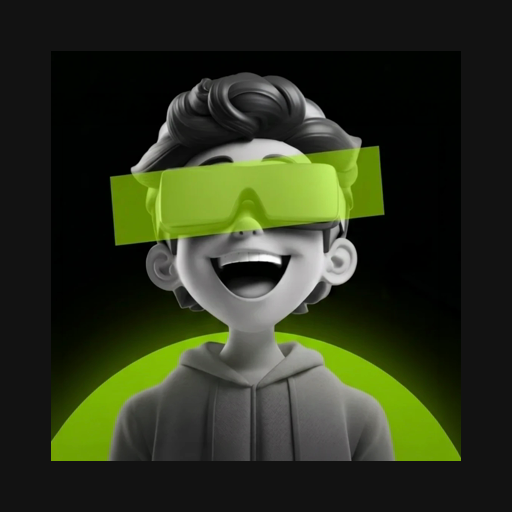
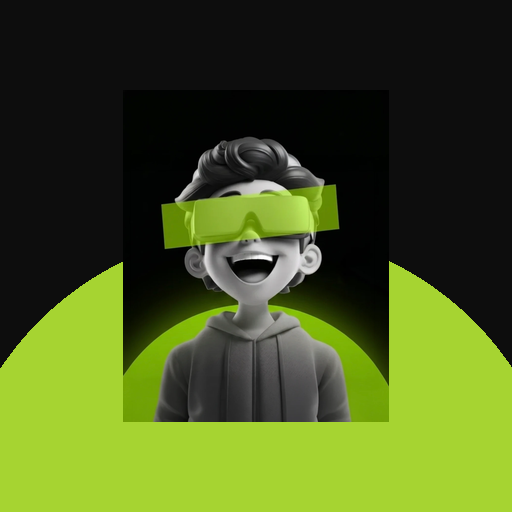
yeta: 잠금 화면 = 레이어 스택(픽: 글리치+VHS+홀로+펄스) + 좌우 잘림 해소 (#40)
포스터 폐지 → .ym-stage 스택(픽 값 로컬 변수) · 스테이지 폭 100% 온전 · maskable 반폭 205→101px 재생성(원형 런처 잘림 원인 실측). check_refs rc=0.

diff --git a/viewer/index.html b/viewer/index.html
@@ -251,9 +251,8 @@ body { background:var(--yeta-bg,#121212); color:var(--fg); font-family:Pretendar
       radial-gradient(circle at 50% 40%, rgba(var(--accent-rgb),.08), transparent 34%),
       radial-gradient(circle at 12% 90%, rgba(var(--cobalt-rgb),.10), transparent 36%),
       var(--bg); color:var(--fg); }
-  /* step1 로그인창 = 운영자 포스터(구성도/소스이미지/main_v2.png → yeta-hero.webp) 전면 full-bleed. 하단 --bg-scrim 딤(로그인·네비 가독) */
-  .ymain { position:fixed; inset:0; display:flex; flex-direction:column; z-index:1;
-    background:var(--bg-scrim), url(assets/brand/yeta-hero.webp) center/cover no-repeat var(--bg); }
+  /* step1 로그인창 = 살아있는 레이어 스택(운영자 260705 픽 이식 — 정적 포스터 폐지 · 소년 컷아웃 + CSS 원/밴드 + 효과 4종) */
+  .ymain { position:fixed; inset:0; display:flex; flex-direction:column; z-index:1; background:var(--bg); overflow:hidden; }
   .ymain.unlocked { background:var(--bg-scrim), url(assets/brand/yeta-bg.webp) center/cover no-repeat var(--bg); }   /* 언락 후 = 앱 기본 배경 계단(라임 글래스)으로 통일(운영자 260705 "배경은 계단으로 통일") · 포스터 = PIN 잠금 화면 전용 */
   /* PIN 모드 전면 글래스 딤 — 포스터 타이포(PLAY a Episode/YETA) 위에 PIN 라벨·슬롯이 겹쳐 뒤죽박죽 되던 것 차단(운영자 스샷 260704).
      딤 값 = dialog ::backdrop 동값 계승 · blur = --blur-m · z = 로컬(절대1 예외축) */
@@ -262,11 +261,27 @@ body { background:var(--yeta-bg,#121212); color:var(--fg); font-family:Pretendar
   .ymain.pin-mode::before { background:linear-gradient(transparent 44%, rgba(0,0,0,.52) 86%); }
   .ymain-body { flex:1; display:flex; flex-direction:column; align-items:center; overflow:hidden; padding:0 24px; position:relative; z-index:2; }
   /* PIN 블록은 절대배치(배 위치)로 오버랩 — body 정렬 불필요(옛 center 규칙 폐지) */
-  /* 캐릭터 뒤 라임 원 발광 펄스 — 중심 48%/69%·반경≈35%w(소스이미지/main_v2.png 실측) · screen=밝히기만(캐릭터 중앙은 링 투명으로 보존) · 디밍↔발광 반복(운영자 260705) */
-  .ym-glow { position:absolute; inset:0; z-index:1; pointer-events:none; mix-blend-mode:screen;
-    background:radial-gradient(circle closest-side at 48% 69%, transparent 56%, rgba(var(--accent-rgb),.46) 77%, transparent 98%);
-    animation:ymGlowPulse 3.4s ease-in-out infinite; }   /* 링 반경 = 원 테두리(closest-side 74~78%≈35%w) · 중앙 투명 = 캐릭터 보존 · 은은한 호흡 */
-  @keyframes ymGlowPulse { 0%,100% { opacity:.12; } 50% { opacity:.58; } }
+  /* ═══ 잠금 화면 레이어 스택(운영자 260705 플레이그라운드 픽: 글리치 RGB+VHS 지터+홀로 플리커+글로우 펄스 · glowop .85/size .85/bandop .56/rot -6°/amp 1.4) ═══
+     좌표계 = 4:5 스테이지 하단 정렬(플레이그라운드 검증 기하 그대로: 원 중심 49.4%,110.5%·지름 134%W · 밴드 상변 33.5%·두께 14%) · 픽 값 = 로컬 변수(조정 용이·:root 아님) · 키프레임 안무·기하 = 절대1 예외축 */
+  .ym-stage { position:absolute; left:50%; bottom:0; transform:translateX(-50%); width:100%; aspect-ratio:4/5; z-index:0; pointer-events:none;   /* 폭 = 화면 100% = 소년 좌우 온전(운영자 '머리 잘림' — 크롭 없는 배치) */
+    --st-glowop:.85; --st-glowsize:.85; --st-bandop:.56; --st-bandrot:-6deg; --st-amp:1.4; }
+  .ymc { position:absolute; left:49.4%; top:110.5%; width:134%; aspect-ratio:1; border-radius:50%; translate:-50% -50%; transform:scale(var(--st-glowsize)); opacity:var(--st-glowop);
+    background:radial-gradient(circle, #a6d431 0 76%, rgba(159,206,46,.6) 86%, rgba(120,160,20,.18) 94%, transparent 100%);
+    animation:ymcPulse calc(3.2s/var(--st-amp)) ease-in-out infinite; }   /* 글로우 펄스(픽) */
+  @keyframes ymcPulse { 0%,100% { opacity:calc(.55*var(--st-glowop)); } 50% { opacity:var(--st-glowop); } }
+  .ymb { position:absolute; inset:0; background:url(assets/brand/yeta-boy-cut.webp) center/contain no-repeat; }
+  .ymb.main { animation:ymbHolo calc(3.1s/var(--st-amp)) linear infinite, ymbVhs calc(.9s/var(--st-amp)) steps(4,jump-none) infinite; }   /* 홀로 플리커 + VHS 지터(픽) */
+  @keyframes ymbHolo { 0%,92%,100% { opacity:1; } 94% { opacity:.74; } 95% { opacity:.95; } 97% { opacity:.82; } }
+  @keyframes ymbVhs { 0%,70%,100% { transform:none; } 75% { transform:translateY(2px); } 85% { transform:translateY(-2px) skewX(.5deg); } }
+  .ymb.g1, .ymb.g2 { mix-blend-mode:screen; opacity:.5; }   /* 글리치 RGB 스플릿(픽) — 클론 2장 · 순간 어긋남 */
+  .ymb.g1 { filter:drop-shadow(0 0 0 rgba(255,0,80,.85)) saturate(0); animation:ymbGlA calc(2.2s/var(--st-amp)) steps(2,jump-none) infinite; }
+  .ymb.g2 { filter:drop-shadow(0 0 0 rgba(0,220,255,.85)) saturate(0); animation:ymbGlB calc(1.7s/var(--st-amp)) steps(3,jump-none) infinite; }
+  @keyframes ymbGlA { 0%,84%,100% { transform:none; } 86% { transform:translate(8px,0); } 92% { transform:translate(-7px,2px); } }
+  @keyframes ymbGlB { 0%,78%,100% { transform:none; } 82% { transform:translate(-9px,0); } 88% { transform:translate(6px,-2px); } }
+  .ym-band { position:absolute; left:-6%; right:-6%; top:33.5%; height:14%; transform:rotate(var(--st-bandrot)); mix-blend-mode:screen; border-radius:2px;
+    background:linear-gradient(180deg, rgba(190,240,60,var(--st-bandop)), rgba(150,205,35,var(--st-bandop))); }   /* 바이저 라벨(분리 레이어 · 픽 투명도) */
+  .ym-stage::after { content:''; position:absolute; inset:0; background:repeating-linear-gradient(0deg, rgba(255,255,255,.035) 0 1px, transparent 1px 3px); }   /* VHS 스캔라인 */
+  .ymain.unlocked .ym-stage { display:none; }   /* 스택 = 잠금 화면 전용(언락 후 탭 화면과 무관) */
   .ym-hero { flex:1; display:flex; flex-direction:column; align-items:center; justify-content:flex-end; gap:26px; padding-bottom:8vh;
     transition:flex-grow .5s var(--ease), gap .5s var(--ease), padding .5s var(--ease); }
   .ym-access { width:72px; height:72px; border-radius:50%; border:1px solid var(--glass-line); cursor:pointer; display:grid; place-items:center;
@@ -347,7 +362,7 @@ body { background:var(--yeta-bg,#121212); color:var(--fg); font-family:Pretendar
   /* ═══ 캐릭터 탭(메뉴2) — OpenAI 얼굴(roster avatar) 전원 갤러리(운영자 260705) · 카드 탭 = 그 캐릭터 챗 진입 · 챗 닫기 = 이 탭 복귀 ═══ */
   .ychar { position:absolute; inset:0; z-index:2; display:none; overflow-y:auto; padding:calc(52px + env(safe-area-inset-top)) var(--sp-2) 96px; }   /* 상단 52 = 좌상단 로고·프로필 클리어런스(로고 86px 축소 정합) */
   .ymain.tab-char .ychar { display:block; }
-  .ymain.tab-char .ym-hero, .ymain.tab-char .ym-glow, .ymain.tab-char .ym-access-card, .ymain.tab-char .ym-pin { display:none; }   /* 홈 히어로·PIN 퇴장 */
+  .ymain.tab-char .ym-hero, .ymain.tab-char .ym-stage, .ymain.tab-char .ym-access-card, .ymain.tab-char .ym-pin { display:none; }   /* 홈 히어로·PIN 퇴장 */
   .ymain.tab-char::before { background:linear-gradient(rgba(0,0,0,.66), rgba(0,0,0,.78)); }   /* 포스터 위 딤 강화 = 갤러리 가독(::before 전환 재사용) */
   /* ═══ YETA 워드마크 로고(운영자 260705 확정: 오프셋×전뇌 반반 — 코발트+라임 반전판 · 코발트 글로우 · 글래스 80% · 모션 6종 · 자간 -22%·엇갈림) ═══
      레터링 = 메인 포스터(main_v2) 원본 추출 4장(assets/brand/yeta-wm-*.png · 마스크) · 색 전부 토큰 · 오프셋/자간 = --w 비례 기하 · 겹층은 JS 조립(#ywm) */
@@ -425,7 +440,7 @@ body { background:var(--yeta-bg,#121212); color:var(--fg); font-family:Pretendar
   /* ═══ 대화 목록 탭(메뉴2) — 카톡/레퍼런스 결(운영자 260705): 글래스 행 = 아바타+이름+미리보기+시간+라임 안읽음 배지 · 행 탭 = 챗 · 단일 세션 = 진행 대화 1행 ═══ */
   .ylist { position:absolute; inset:0; z-index:2; display:none; overflow-y:auto; padding:calc(52px + env(safe-area-inset-top)) var(--sp-2) 96px; }   /* 상단 52 = 로고 클리어런스 동일 */
   .ymain.tab-list .ylist { display:block; }
-  .ymain.tab-list .ym-hero, .ymain.tab-list .ym-glow, .ymain.tab-list .ym-access-card, .ymain.tab-list .ym-pin { display:none; }
+  .ymain.tab-list .ym-hero, .ymain.tab-list .ym-stage, .ymain.tab-list .ym-access-card, .ymain.tab-list .ym-pin { display:none; }
   .ymain.tab-list::before { background:linear-gradient(rgba(0,0,0,.66), rgba(0,0,0,.78)); }   /* tab-char 동값 딤 */
   .ylist-row { display:flex; align-items:center; gap:12px; width:100%; padding:11px 12px; margin-bottom:8px; background:var(--glass); border:1px solid var(--glass-line); border-radius:var(--r-l);
     color:var(--fg); font:inherit; text-align:left; cursor:pointer; touch-action:manipulation; -webkit-tap-highlight-color:transparent;
@@ -452,13 +467,13 @@ body { background:var(--yeta-bg,#121212); color:var(--fg); font-family:Pretendar
       border-inline:1px solid var(--glass-line); box-shadow:var(--shadow-card); overflow:hidden; }
     #yetadlg { height:100dvh; width:auto; aspect-ratio:9/16; max-width:100vw; border-radius:0; margin:auto; inset:0; }   /* 챗 = 메인(.ymain)과 동일 9:16 프레임·동일 중앙정렬(margin:auto+inset:0 — 없으면 base margin:0으로 좌상단 쏠려 앱프레임과 "따로 놀던" 것 교정 260705) */
   }
-  @media (prefers-reduced-motion:reduce){ .ym-hero, .ym-pin, .ym-access, .ym-shackle, .ynav button, .ynav button span { transition:none; } .ym-access, .ym-glow { animation:none; } }
+  @media (prefers-reduced-motion:reduce){ .ym-hero, .ym-pin, .ym-access, .ym-shackle, .ynav button, .ynav button span { transition:none; } .ym-access, .ymc, .ymb, .ymb.g1, .ymb.g2 { animation:none; } .ymb.g1, .ymb.g2 { display:none; } }
 </style>
 </head>
 <body>
 <!-- ═══ YETA 메인 화면 (라이트·PIN 게이트 · 260704 재디자인 V1) ═══ -->
 <div class="ymain" id="ymain">
-  <div class="ym-glow" aria-hidden="true"></div>   <!-- 캐릭터 뒤 라임 원 발광 펄스(포스터 원에 오버랩 · screen 블렌드) -->
+  <div class="ym-stage" aria-hidden="true"><div class="ymc"></div><div class="ymb g1"></div><div class="ymb g2"></div><div class="ymb main"></div><div class="ym-band"></div></div>   <!-- 잠금 레이어 스택(소년 컷아웃 + CSS 원/밴드 + 픽 효과 4종 · 260705) -->
   <div class="ymain-body">
     <div class="ym-hero">
       <div class="ym-access-card">

diff --git a/docs/작업이력.md b/docs/작업이력.md
@@ -199,3 +199,11 @@
 - **레이어 분리**: pillow flood-fill+색·기하 필터 4회 반복 실측{배경 flood → 라임 원(y≥730 소프트 라임) → 밴드 돌출 사각 → 원 테두리 잔선(실측 R723)} → 투명 컷아웃 `viewer/assets/brand/yeta-boy-cut.webp`(1080²·55KB). 원·밴드 기하 실측: 원 중심(49.4%,110.5%)·테두리 67%W · 밴드 -5.5°·상변 33.5%·두께 14%.
 - **플레이그라운드** `docs/reports/260705_소년_레이어_플레이그라운드.html`(워드마크 결): 레이어 4장{배경·라임 원[CSS 정원]·소년 컷아웃·밴드[CSS]} + 효과 8종 중첩{글리치 RGB·VHS·스캔롤·홀로·글로우 펄스·패럴랙스·밴드 슬라이드·부팅} + 슬라이더 6축 + 값 복사. 전부 CSS = 메인 직이식.
 - 검증: Playwright 렌더 JS에러 0·원 기하 정합. 경위: main 병행 이동(#38 등)으로 405 → 재구성. 운영자 조합 픽 대기.
+
+## 11차 — 잠금 화면 = 살아있는 레이어 스택(운영자 픽 이식) + 좌우 잘림 근본 해결 (운영자 260705)
+- **운영자 픽 이식**(플레이그라운드 값): 효과 4종 중첩{글리치 RGB·VHS 지터·홀로 플리커·글로우 펄스} · glowop .85 · glowsize .85 · bandop .56 · bandrot -6° · amp 1.4. 잠금 화면 = 정적 포스터(hero.webp) 폐지 → `.ym-stage` 레이어 스택{CSS 라임 원(.ymc)·소년 컷아웃(.ymb×3 — 본체+글리치 클론 2)·CSS 밴드(.ym-band)·스캔라인(::after)}. 픽 값 = 스테이지 로컬 변수(--st-* · :root 아님 = 토큰 락 무관 · 키프레임 안무/기하 = 절대1 예외축).
+- **"좌우 머리 잘림" 실측·2건 해소**(운영자 "계속 잘려"):
+  ① 잠금 스테이지 초안(88dvh)이 좌우 크롭 설계였음 → **폭 100%(소년 온전·크롭 0)** 하단 정렬로 교정.
+  ② **maskable 아이콘 실측** — 소년 반폭 205px > 원형 마스크 엄격 안전 반지름 166px = 원형 런처에서 컬 잘림 확정 → 재생성{배경 = 캔버스에 라임 원 직접 드로잉(잘려도 되는 배경) + 소년 contain 332h 중앙} → 반폭 101px ✓. any(192/512)는 원본 정사각 그대로(잘림 무).
+- reduced-motion = 스택 애니 전부 무효+글리치 클론 숨김. 언락/탭 화면에서 스택 숨김. Playwright 실측(스택·애니 3종 가동·JS에러 0).
+- ⚠️ 폰 홈스크린에 남는 옛 아이콘 = OS 캐시 — 재설치(홈스크린 삭제 후 재추가) 필요.